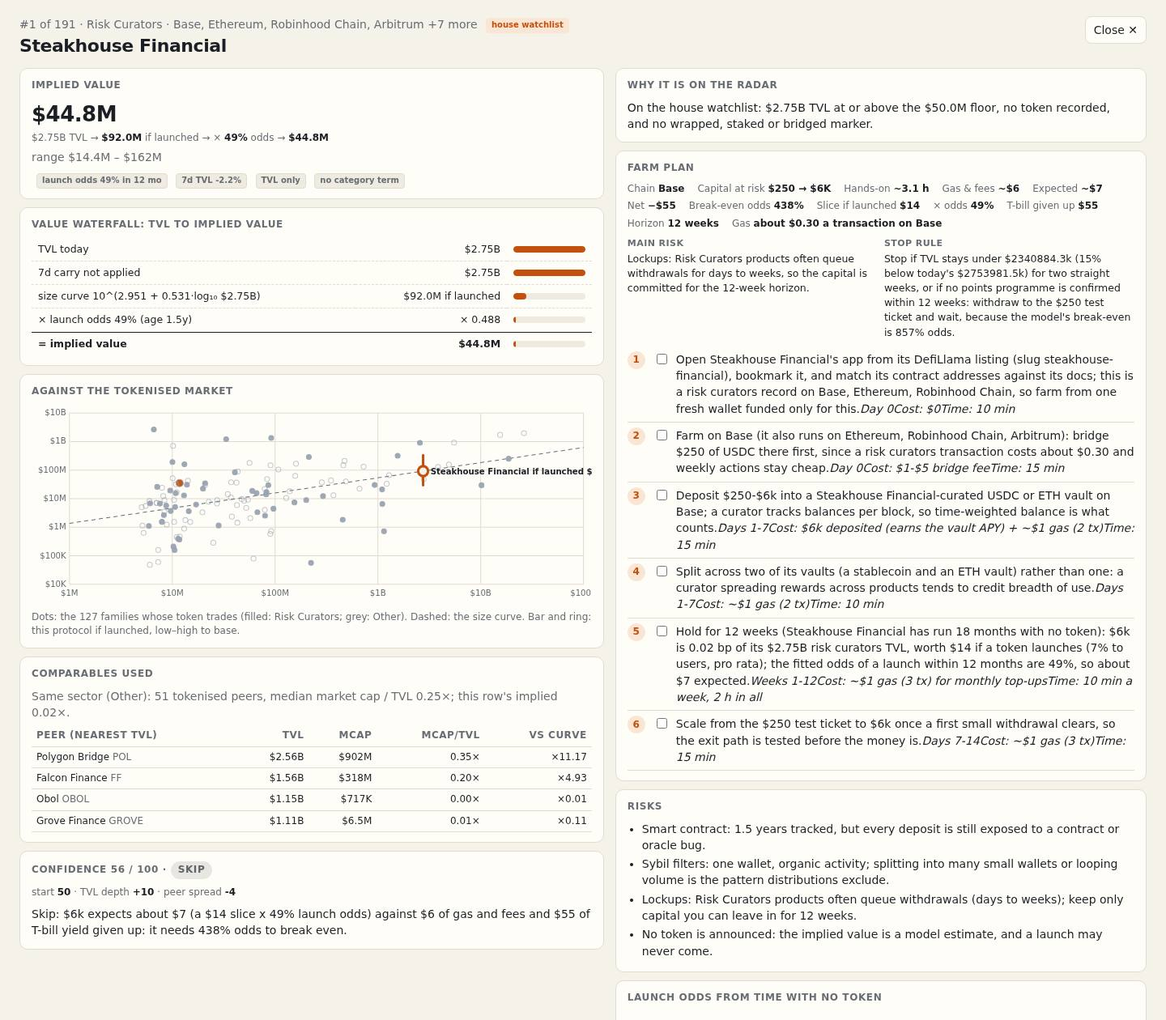
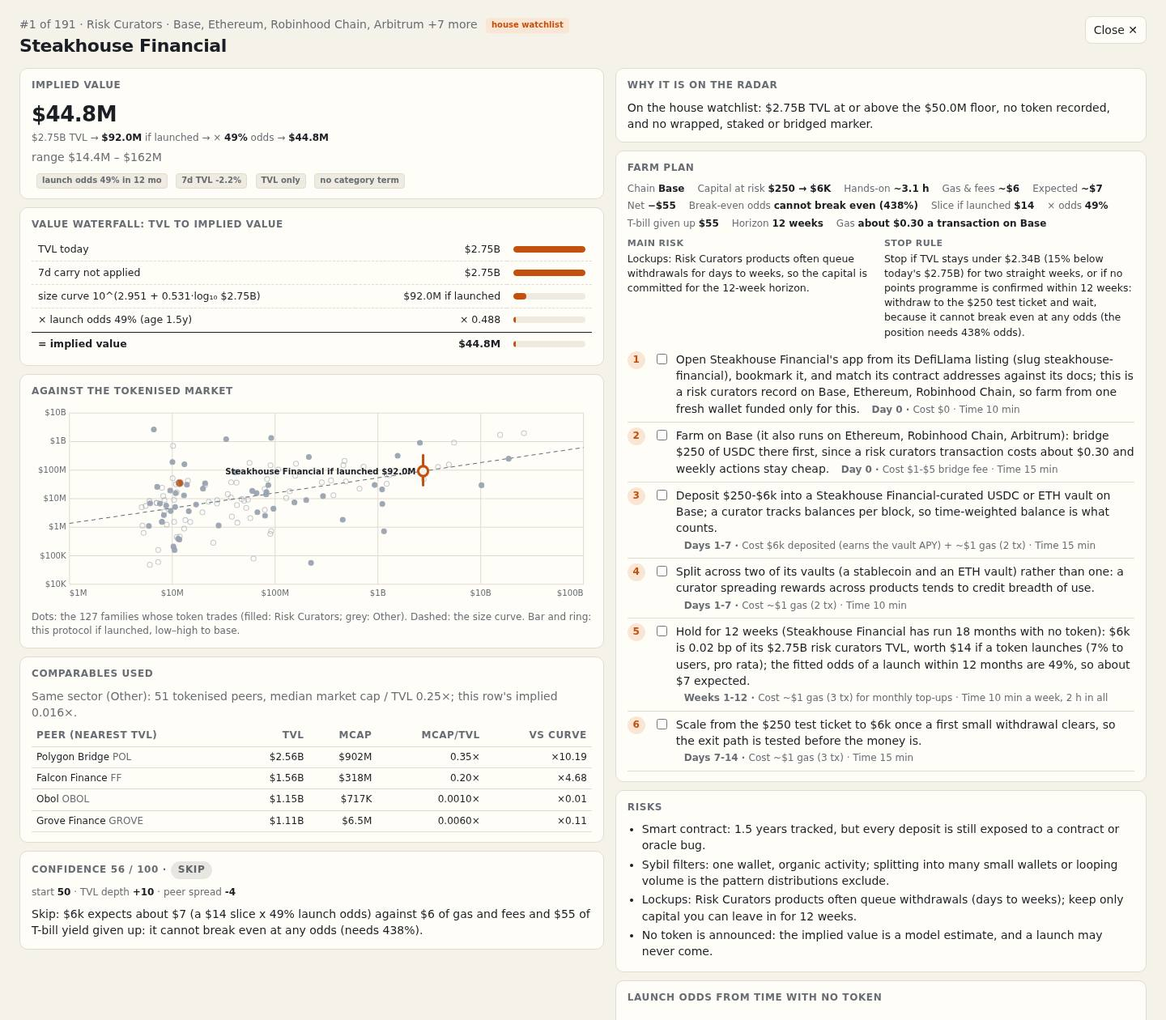
radar-v8: fix all 9 REVIEW.md points (strip NaN, applied odds formula, one break-even, big() money, step separators, scatter labels, vs-curve, best-net KPI, rendered-text checks); retake screenshots; verify 18/18

diff --git a/dashboard/app.js b/dashboard/app.js
@@ -10,6 +10,9 @@
   }
   function pct(x) { return x === null ? 'n/a' : (x >= 0 ? '+' : '') + x.toFixed(1) + '%'; }
   function times(x) { return '×' + Math.pow(10, x).toFixed(2); }
+  function mult(x) { return (x >= 0.1 ? x.toFixed(2) : x >= 0.01 ? x.toFixed(3) : x.toFixed(4)) + '×'; }
+  function vsCurve(c) { return times(Math.log10(c.mc) - (R.fit.a + R.fit.b * Math.log10(c.tvl))); }
+  function bePct(be) { return be >= 1 ? 'cannot break even (' + Math.round(be * 100) + '%)' : Math.round(be * 100) + '%'; }
   function clamp(x, a, b) { return Math.max(a, Math.min(b, x)); }
   var PR = { 'farm now': 'now', watch: 'watch', skip: 'skip' }, PR_ORDER = { 'farm now': 0, watch: 1, skip: 2 };
   function pill(p) { return '<span class="pill ' + PR[p] + '">' + esc(p) + '</span>'; }
@@ -88,17 +91,20 @@
   }
 
   function kpis() {
-    var tvl = 0, val = 0, now = 0, byCat = {};
-    rows.forEach(function (r) { tvl += r.tvl; val += r.b; if (r.pr === 'farm now') now++; byCat[r.c] = (byCat[r.c] || 0) + r.tvl; });
+    var tvl = 0, val = 0, byCat = {};
+    rows.forEach(function (r) { tvl += r.tvl; val += r.b; byCat[r.c] = (byCat[r.c] || 0) + r.tvl; });
     var top = Object.keys(byCat).sort(function (a, b) { return byCat[b] - byCat[a]; })[0], covered = rows.filter(function (r) { return r.w; }).length;
+    var best = rows[0], near = rows[0], now = 0;
+    rows.forEach(function (r) { if (r.net > best.net) best = r; if (r.be < near.be) near = r; if (r.pr === 'farm now') now++; });
     function k(b, span, small) { return '<div class="kpi"><b>' + b + '</b><span>' + span + '</span><small>' + small + '</small></div>'; }
     return '<section class="kpis" aria-label="Headline numbers">' +
       k(covered + ' / ' + R.counts.watchlist, 'watchlist covered', 'every house slug ranked') +
       k(String(rows.length), 'pre-token candidates', (rows.length - covered) + ' beyond the house list') +
       k(usd(tvl), 'TVL with no token', R.counts.live + ' records with a token kept off') +
       k(usd(val), 'implied launch value', 'sum of base cases') +
-      k(String(now), 'farm now', 'of ' + rows.length + ' plans') +
-      k(esc(top), 'top category by TVL', 'the board spans ' + cats.length + ' categories') + '</section>' + split();
+      k((best.net >= 0 ? '+' : '−') + '$' + Math.abs(best.net), 'best net on a plan', 'nearest break-even ' + bePct(near.be)) +
+      k(esc(top), 'top category by TVL', 'the board spans ' + cats.length + ' categories') + '</section>' + split() +
+      '<p class="covline"><b>' + now + ' farm now</b> of ' + rows.length + ' plans — no row clears every test at once (no caution flag, confidence ≥ 55, 7d TVL above −12%, net ≥ $25 and ≥ its costs), so the board is ranked by implied value, not by green rows: the best net is ' + (best.net >= 0 ? '+' : '−') + '$' + Math.abs(best.net) + ' on ' + esc(best.n) + ', and the nearest to break-even needs ' + bePct(near.be) + ' launch odds.</p>';
   }
   function split() {
     var c = R.counts, parts = [['board', rows.length, 'pre-token candidates, ranked below', 'var(--accent)'], ['live', c.live, 'records whose token already trades: comparables', 'var(--pos)'], ['excluded', c.excluded, 'no token, but a product of a traded one', 'var(--peer)']];
@@ -109,10 +115,10 @@
     var f = R.fit, o = R.odds, t = R.tests.filter(function (x) { return x.applied; })[0] || R.tests[0], w = rows[0], a = assumptions(read()), wv = value(w, a);
     var terms = [['size', '10^(' + f.a + ' + ' + f.b + '·log₁₀ TVL)', t.name],
       ['carry', f.cap ? '7d capped ×' + f.cap : f.ridge ? '7d shrunk ×' + f.ridge : '7d not applied', f.cap || f.ridge ? 'applied' : 'rejected'],
-      ['time', 'F(a)=1/(1+e^−(' + o.c0 + '+' + o.c1 + 'a))', 'odds ' + o.n], ['odds', o.pick, 'log loss ' + o.logloss]];
+      ['time', 'F(a)=1/(1+e^−(' + o.c0 + '+' + o.c1 + 'a+' + o.c2 + '·log₁₀TVL+' + o.c3 + '·log₁₀(1+7d)))', 'fit ' + o.n + ' rows'], ['odds', o.pick, 'log loss ' + o.logloss]];
     return '<section class="strip" aria-label="The value model"><div class="sform"><span class="stag">Value</span><code>implied = if launched × launch odds</code>' +
       terms.map(function (x) { return '<span class="tchip"><b>' + x[0] + '</b> ' + esc(x[1]) + '<i class="' + (x[2] === 'rejected' ? 'rej' : 'ok') + '">' + esc(x[2]) + '</i></span>'; }).join('') +
-      '</div><div class="sworked"><b>#' + w.r + ' ' + esc(w.n) + '</b> ' + usd(w.tvl) + ' TVL → <b>' + usd(w.ifl) + '</b> if launched × ' + Math.round(wv.od * 100) + '% = <b>' + usd(wv.b) + '</b> implied <span class="muted">(range ' + usd(w.lo) + '–' + usd(w.hi) + '; LOO error ' + f.loo_mae + ' dex on ' + f.n + ' traded tokens)</span>' +
+      '</div><div class="sworked"><b>#' + w.r + ' ' + esc(w.n) + '</b> ' + usd(w.tvl) + ' TVL → <b>' + usd(w.ifl) + '</b> if launched × ' + Math.round(w.od * 100) + '% = <b>' + usd(wv) + '</b> implied <span class="muted">(range ' + usd(w.lo) + '–' + usd(w.hi) + '; LOO error ' + f.loo_mae + ' dex on ' + f.n + ' traded tokens)</span>' +
       (a.on ? ' <span class="yours">your assumptions: growth ×' + a.g + ', odds ×' + a.o + (a.cap ? ', capital ' + usd(a.cap) : '') + '</span>' : '') + '</div></section>';
   }
   function opts(list, cur, all) { return '<option value="">' + all + '</option>' + list.map(function (x) { return '<option' + (x === cur ? ' selected' : '') + '>' + esc(x) + '</option>'; }).join(''); }
@@ -191,7 +197,7 @@
       cell('If launched', function (r) { return usd(r.ifl); }) +
       cell('Odds · implied', function (r) { return Math.round(r.od * 100) + '% · <b>' + usd(r.b) + '</b>'; }) +
       cell('Plan: cost · net', function (r) { return '$' + r.tc + ' · <span class="' + (r.net > 0 ? 'up' : 'down') + '">' + (r.net >= 0 ? '+' : '−') + '$' + Math.abs(r.net) + '</span>'; }) +
-      cell('Hands-on · break-even', function (r) { return r.hr + ' h · ' + Math.round(r.be * 100) + '%'; }) +
+      cell('Hands-on · break-even', function (r) { return r.hr + ' h · ' + bePct(r.be); }) +
       cell('Main risk', function (r) { return '<span class="muted">' + esc(r.mr) + '</span>'; }) + '</table></div></section>';
   }
 
@@ -204,7 +210,7 @@
     function X(v) { return P + (v - x0) / (x1 - x0) * (W - P - 10); }
     function Y(v) { return H - 22 - (v - y0) / (y1 - y0) * (H - 32); }
     var g = '', t;
-    for (t = x0; t <= x1; t++) g += '<line x1="' + X(t) + '" y1="10" x2="' + X(t) + '" y2="' + (H - 22) + '" stroke="var(--line)"/><text x="' + X(t) + '" y="' + (H - 8) + '" text-anchor="middle">' + dec(t) + '</text>';
+    for (t = x0; t <= x1; t++) g += '<line x1="' + X(t) + '" y1="10" x2="' + X(t) + '" y2="' + (H - 22) + '" stroke="var(--line)"/><text x="' + X(t) + '" y="' + (H - 8) + '" text-anchor="' + (t === x0 ? 'start' : t === x1 ? 'end' : 'middle') + '">' + dec(t) + '</text>';
     for (t = y0; t <= y1; t++) g += '<line x1="' + P + '" y1="' + Y(t) + '" x2="' + (W - 10) + '" y2="' + Y(t) + '" stroke="var(--line)"/><text x="' + (P - 4) + '" y="' + (Y(t) + 3) + '" text-anchor="end">' + dec(t) + '</text>';
     g += '<line x1="' + X(x0) + '" y1="' + Y(R.fit.a + R.fit.b * x0) + '" x2="' + X(x1) + '" y2="' + Y(R.fit.a + R.fit.b * x1) + '" stroke="var(--muted)" stroke-dasharray="5 4"/>';
     comps.forEach(function (c) {
@@ -213,7 +219,8 @@
     });
     var k = r.ifl / r.b, cx = X(Math.log10(r.tvl));
     g += '<line x1="' + cx + '" y1="' + Y(Math.log10(r.lo * k)) + '" x2="' + cx + '" y2="' + Y(Math.log10(r.hi * k)) + '" stroke="var(--hi)" stroke-width="3" stroke-linecap="round"/><circle cx="' + cx + '" cy="' + Y(Math.log10(r.ifl)) + '" r="6" fill="var(--bg)" stroke="var(--hi)" stroke-width="3"/>';
-    g += '<text x="' + (cx + 9) + '" y="' + (Y(Math.log10(r.ifl)) + 4) + '" style="fill:var(--ink);font-weight:700">' + esc(r.n) + ' if launched ' + usd(r.ifl) + '</text>';
+    var lbl = esc(r.n) + ' if launched ' + usd(r.ifl), flip = cx > W * 0.55;
+    g += '<text x="' + (flip ? cx - 9 : cx + 9) + '" y="' + (Y(Math.log10(r.ifl)) + 4) + '" text-anchor="' + (flip ? 'end' : 'start') + '" style="fill:var(--ink);font-weight:700">' + lbl + '</text>';
     return '<svg viewBox="0 0 ' + W + ' ' + H + '" width="100%" role="img" aria-label="Market cap against TVL for ' + comps.length + ' tokenised protocols">' + g + '</svg>' +
       '<p class="muted" style="font-size:12px;margin:4px 0 0">Dots: the ' + comps.length + ' families whose token trades (filled: ' + esc(r.c) + '; grey: ' + esc(r.sec) + '). Dashed: the size curve. Bar and ring: this protocol if launched, low–high to base.</p>';
   }
@@ -221,10 +228,10 @@
     var same = R.comps.filter(function (c) { return c.c === r.c; }), basis = same.length >= 3 ? same : R.comps.filter(function (c) { return c.sec === r.sec; });
     var near = basis.slice().sort(function (a, b) { return Math.abs(Math.log10(a.tvl / r.tvl)) - Math.abs(Math.log10(b.tvl / r.tvl)) || (a.s < b.s ? -1 : 1); }).slice(0, 4);
     if (!near.length) return '<p class="muted">No tokenised peer in this sector: the size curve is the market-wide one.</p>';
-    var mult = basis.map(function (c) { return c.x; }).sort(function (a, b) { return a - b; }), med = mult[Math.floor(mult.length / 2)];
-    return '<p class="muted" style="margin:0 0 6px">' + (same.length >= 3 ? 'Same category' : 'Same sector (' + esc(r.sec) + ')') + ': ' + basis.length + ' tokenised peers, median market cap / TVL ' + med.toFixed(2) + '×; this row\'s implied ' + r.m.toFixed(2) + '×.</p>' +
+    var mults = basis.map(function (c) { return c.x; }).sort(function (a, b) { return a - b; }), med = mults[Math.floor(mults.length / 2)];
+    return '<p class="muted" style="margin:0 0 6px">' + (same.length >= 3 ? 'Same category' : 'Same sector (' + esc(r.sec) + ')') + ': ' + basis.length + ' tokenised peers, median market cap / TVL ' + mult(med) + '; this row\'s implied ' + mult(r.m) + '.</p>' +
       '<table class="peers"><thead><tr><th>Peer (nearest TVL)</th><th class="n">TVL</th><th class="n">Mcap</th><th class="n">Mcap/TVL</th><th class="n">vs curve</th></tr></thead><tbody>' +
-      near.map(function (c) { return '<tr><td>' + esc(c.n) + ' <span class="muted">' + esc(c.sym) + '</span></td><td class="n">' + usd(c.tvl) + '</td><td class="n">' + usd(c.mc) + '</td><td class="n">' + c.x.toFixed(2) + '×</td><td class="n">' + times(c.e) + '</td></tr>'; }).join('') + '</tbody></table>';
+      near.map(function (c) { return '<tr><td>' + esc(c.n) + ' <span class="muted">' + esc(c.sym) + '</span></td><td class="n">' + usd(c.tvl) + '</td><td class="n">' + usd(c.mc) + '</td><td class="n">' + mult(c.x) + '</td><td class="n">' + vsCurve(c) + '</td></tr>'; }).join('') + '</tbody></table>';
   }
   function waterfall(r) {
     var t = r.t, carried = r.tvl * t.carry;
@@ -265,9 +272,9 @@
       '<div class="card"><h3>Why it is on the radar</h3><p style="margin:0">' + esc(r.why) + '</p>' + (r.fl.length ? '<ul class="risks">' + r.fl.map(function (f) { return '<li>⚑ ' + esc(f) + '</li>'; }).join('') + '</ul>' : '') + '</div>' +
       '<div class="card"><h3>Farm plan</h3><div class="facts">' +
       '<span>Chain <b>' + esc(r.chain) + '</b></span><span>Capital at risk <b>' + usd(r.cap[0]) + ' → ' + usd(r.cap[1]) + '</b></span><span>Hands-on <b>~' + r.hr + ' h</b></span><span>Gas &amp; fees <b>~$' + r.tc + '</b></span>' +
-      '<span>Expected <b>~$' + r.dp + '</b></span><span>Net <b class="' + (r.net > 0 ? 'up' : 'down') + '">' + (r.net >= 0 ? '+' : '−') + '$' + Math.abs(r.net) + '</b></span><span>Break-even odds <b>' + Math.round(r.be * 100) + '%</b></span><span>Slice if launched <b>$' + r.sl + '</b></span><span>× odds <b>' + Math.round(r.oh * 100) + '%</b></span><span>T-bill given up <b>$' + r.tb + '</b></span><span>Horizon <b>' + r.wk + ' weeks</b></span><span>Gas <b>' + esc(r.gas) + '</b></span></div>' +
+      '<span>Expected <b>~$' + r.dp + '</b></span><span>Net <b class="' + (r.net > 0 ? 'up' : 'down') + '">' + (r.net >= 0 ? '+' : '−') + '$' + Math.abs(r.net) + '</b></span><span>Break-even odds <b>' + bePct(r.be) + '</b></span><span>Slice if launched <b>$' + r.sl + '</b></span><span>× odds <b>' + Math.round(r.oh * 100) + '%</b></span><span>T-bill given up <b>$' + r.tb + '</b></span><span>Horizon <b>' + r.wk + ' weeks</b></span><span>Gas <b>' + esc(r.gas) + '</b></span></div>' +
       '<div class="facts2"><div><b>Main risk</b><p>' + esc(r.mr) + '</p></div><div><b>Stop rule</b><p>' + esc(r.sr) + '</p></div></div>' +
-      '<ol class="steps">' + r.st.map(function (st, i) { return '<li><label><input type="checkbox" data-step="' + i + '"' + (done[i] ? ' checked' : '') + '><span>' + esc(st[0]) + '<span class="ct">' + (st[3] ? '<i class="when">' + esc(st[3]) + '</i>' : '') + '<i>Cost: ' + esc(st[1]) + '</i><i>Time: ' + esc(st[2]) + '</i></span></span></label></li>'; }).join('') + '</ol></div>' +
+      '<ol class="steps">' + r.st.map(function (st, i) { return '<li><label><input type="checkbox" data-step="' + i + '"' + (done[i] ? ' checked' : '') + '><span>' + esc(st[0]) + ' <span class="ct">' + (st[3] ? '<i class="when">' + esc(st[3]) + ' · </i>' : '') + '<i>Cost ' + esc(st[1]) + '</i> · <i>Time ' + esc(st[2]) + '</i></span></span></label></li>'; }).join('') + '</ol></div>' +
       '<div class="card"><h3>Risks</h3><ul class="risks">' + r.rk.map(function (x) { return '<li>' + esc(x) + '</li>'; }).join('') + '</ul></div>' +
       '<div class="card"><h3>Launch odds from time with no token</h3>' + oddsChart(r) + '</div></div></div>';
     panel.onchange = function (e) {
@@ -284,7 +291,7 @@
     var c = R.comps.slice().sort(function (a, b) { return b.mc - a.mc || (a.s < b.s ? -1 : 1); });
     return '<div class="prose"><h2>Already trading: the comparables</h2><p><b>' + R.counts.live + '</b> records carry a token and are kept off the board. Records sharing a symbol form one family (TVL summed, market cap counted once): these <b>' + c.length + '</b> families price every candidate. "vs curve" is market cap against the size curve.</p></div>' +
       '<div class="tablewrap"><table><thead><tr><th>Protocol</th><th>Token</th><th class="hide-sm">Category</th><th class="n">TVL</th><th class="n">Market cap</th><th class="n">Mcap/TVL</th><th class="n hide-sm">vs curve</th><th>Why it is not ranked</th></tr></thead><tbody>' +
-      c.map(function (x) { return '<tr><td class="pname">' + esc(x.n) + '</td><td>' + esc(x.sym) + '</td><td class="hide-sm">' + esc(x.c) + '</td><td class="n">' + usd(x.tvl) + '</td><td class="n">' + usd(x.mc) + '</td><td class="n">' + x.x.toFixed(2) + '×</td><td class="n hide-sm ' + (x.e >= 0 ? 'up' : 'down') + '">' + times(x.e) + '</td><td class="muted">Token ' + esc(x.sym) + ' already trades — used as a comparable, not a launch candidate.</td></tr>'; }).join('') + '</tbody></table></div>';
+      c.map(function (x) { return '<tr><td class="pname">' + esc(x.n) + '</td><td>' + esc(x.sym) + '</td><td class="hide-sm">' + esc(x.c) + '</td><td class="n">' + usd(x.tvl) + '</td><td class="n">' + usd(x.mc) + '</td><td class="n">' + mult(x.x) + '</td><td class="n hide-sm ' + (x.e >= 0 ? 'up' : 'down') + '">' + vsCurve(x) + '</td><td class="muted">Token ' + esc(x.sym) + ' already trades — used as a comparable, not a launch candidate.</td></tr>'; }).join('') + '</tbody></table></div>';
   }
   function excluded() {
     var x = R.excluded.slice().sort(function (a, b) { return b.tvl - a.tvl || (a.s < b.s ? -1 : 1); });

diff --git a/lib/plans.ts b/lib/plans.ts
@@ -42,8 +42,15 @@ const MAINNET = new Set(['Ethereum', 'Bitcoin']);
 function pickChain(chains: string[]): string {
   return chains.find((c) => !MAINNET.has(c)) ?? chains[0] ?? 'Ethereum';
 }
-const usd = (n: number) => n >= 1000 ? `$${(n / 1000).toFixed(n % 1000 === 0 ? 0 : 1)}k` : `$${Math.round(n)}`;
-const big = (n: number) => n >= 1e9 ? `$${(n / 1e9).toFixed(2)}B` : `$${(n / 1e6).toFixed(1)}M`;
+const usd = (n: number) => {
+  const a = Math.abs(n);
+  if (a >= 1e12) return `$${(n / 1e12).toFixed(2)}T`;
+  if (a >= 1e9) return `$${(n / 1e9).toFixed(2)}B`;
+  if (a >= 1e6) return `$${(n / 1e6).toFixed(1)}M`;
+  if (a >= 1e3) return `$${(n / 1e3).toFixed(n % 1000 === 0 ? 0 : 1)}k`;
+  return `$${Math.round(n)}`;
+};
+const big = (n: number) => n >= 1e9 ? `$${(n / 1e9).toFixed(2)}B` : n >= 1e6 ? `$${(n / 1e6).toFixed(1)}M` : n >= 1e3 ? `$${(n / 1e3).toFixed(0)}k` : `$${Math.round(n)}`;
 
 interface Ctx { p: Protocol; v: Valuation; chain: string; cheap: boolean; gas: number; ticket: number; full: number; weeks: number; per1k: number; c7: number; age: number | null; cat: string; }
 
@@ -125,10 +132,10 @@ function mainRisk(p: Protocol, v: Valuation, verdict: Verdict, sector: string, w
 }
 
 /** The rule that ends the plan, with the numbers from this protocol's own record. */
-function stopRule(x: Ctx, f: { slice: number; odds: number }): string {
+function stopRule(x: Ctx, f: { slice: number; odds: number; breakeven: number }): string {
   const floor = Math.round(x.p.tvl_usd * 0.85);
-  const tail = f.odds < 0.2 ? `it needs ${Math.round((x.full * 0.02) / Math.max(1, f.slice) * 100)}% odds to break even` : `the model's break-even is ${Math.round((x.full * 0.02) / Math.max(1, f.slice) * 100)}% odds`;
-  return `Stop if TVL stays under ${usd(floor)} (15% below today's ${usd(x.p.tvl_usd)}) for two straight weeks, or if no points programme is confirmed within ${x.weeks} weeks: withdraw to the ${usd(x.ticket)} test ticket and wait, because ${tail}.`;
+  const tail = f.breakeven >= 1 ? `it cannot break even at any odds (the position needs ${(f.breakeven * 100).toFixed(0)}% odds)` : `the model's break-even is ${Math.round(f.breakeven * 100)}% odds`;
+  return `Stop if TVL stays under ${big(floor)} (15% below today's ${big(x.p.tvl_usd)}) for two straight weeks, or if no points programme is confirmed within ${x.weeks} weeks: withdraw to the ${usd(x.ticket)} test ticket and wait, because ${tail}.`;
 }
 
 export function plan(p: Protocol, v: Valuation, verdict: Verdict, sector: string, m: Fitted): Plan {
@@ -177,11 +184,12 @@ export function plan(p: Protocol, v: Valuation, verdict: Verdict, sector: string
 
   // The rule itself is RadarModel.priority (dashboard/model.js); here it is put into words.
   const priority: Priority = M.priority(verdict.flags.length, v.confidence, c7, net, total);
+  const beText = f.breakeven >= 1 ? `it cannot break even at any odds (needs ${(f.breakeven * 100).toFixed(0)}%)` : `break-even ${Math.round(f.breakeven * 100)}% odds`;
   let why: string;
   if (verdict.flags.length > 0) why = `Skip: ${verdict.flags[0]}.`;
   else if (v.confidence < 40) why = `Skip: confidence ${v.confidence}/100 is too low to commit capital on.`;
-  else if (net <= 0) why = `Skip: ${usd(full)} expects about $${drop} (a $${f.slice} slice x ${Math.round(f.odds * 100)}% launch odds) against $${total} of gas and fees and $${f.tbill} of T-bill yield given up: it needs ${Math.round(f.breakeven * 100)}% odds to break even.`;
-  else if (priority === 'farm now') { why = `Farm now: ${usd(full)} nets about $${net} ($${drop} expected less $${total} gas and fees and $${f.tbill} of T-bill yield; break-even odds ${Math.round(f.breakeven * 100)}%), confidence ${v.confidence}/100, TVL ${c7 >= 0 ? '+' : ''}${c7.toFixed(1)}% in 7d.`; }
+  else if (net <= 0) why = `Skip: ${usd(full)} expects about $${drop} (a $${f.slice} slice x ${Math.round(f.odds * 100)}% launch odds) against $${total} of gas and fees and $${f.tbill} of T-bill yield given up: ${beText}.`;
+  else if (priority === 'farm now') { why = `Farm now: ${usd(full)} nets about $${net} ($${drop} expected less $${total} gas and fees and $${f.tbill} of T-bill yield; ${beText}), confidence ${v.confidence}/100, TVL ${c7 >= 0 ? '+' : ''}${c7.toFixed(1)}% in 7d.`; }
   else { why = `Watch (thin): nets about $${net} on ${usd(full)}${c7 <= -12 ? ` and TVL fell ${c7.toFixed(1)}% in 7d` : v.confidence < 55 ? ` at confidence ${v.confidence}/100` : ''}; enter on a points announcement or a turn in TVL.`; }
   const minutes = steps.reduce((s, st) => s + [...st.time.matchAll(/(\d+) min(?! a week)/g)].reduce((a, m) => a + Number(m[1]), 0), 0) + weeks * 10;
 

diff --git a/dashboard/app.css b/dashboard/app.css
@@ -49,6 +49,8 @@ main { padding: 16px 24px 8px; max-width: 1440px; margin: 0 auto; }
 .split .bar { display: flex; height: 8px; border-radius: 5px; overflow: hidden; gap: 2px; }
 .split .legend { display: flex; flex-wrap: wrap; gap: 2px 16px; font-size: 12px; color: var(--muted); margin-top: 4px; }
 .split .legend b { color: var(--ink); }
+.covline { margin: 0 0 8px; font-size: 12px; color: var(--muted); }
+.covline b { color: var(--ink); }
 .split i { display: inline-block; width: 8px; height: 8px; border-radius: 2px; margin-right: 5px; vertical-align: -1px; }
 
 .strip { background: var(--card); border: 1px solid var(--line); border-left: 4px solid var(--accent); border-radius: var(--r); padding: 8px 12px; margin: 0 0 8px; box-shadow: var(--shadow); max-height: 120px; overflow: hidden; }
@@ -175,6 +177,9 @@ ol.steps li::before { content: counter(s); width: 22px; height: 22px; border-rad
 ol.steps label { display: flex; gap: 8px; align-items: flex-start; cursor: pointer; }
 ol.steps input { margin-top: 3px; accent-color: var(--accent); }
 ol.steps input:checked + span { color: var(--muted); text-decoration: line-through; }
+.ct { display: inline-block; margin-left: 10px; color: var(--muted); font-size: 12px; font-variant-numeric: tabular-nums; }
+.ct i { font-style: normal; }
+.ct .when { font-weight: 600; }
 ul.risks { margin: 0; padding-left: 18px; }
 ul.risks li { margin: 3px 0; }
 .facts { display: flex; flex-wrap: wrap; gap: 4px 16px; font-size: 12px; color: var(--muted); margin-bottom: 8px; }

diff --git a/dashboard/model.js b/dashboard/model.js
@@ -249,9 +249,10 @@
     rows.forEach(function (r, j) { (cats[r.cat] = cats[r.cat] || []).push(errs[j]); });
     for (var c in cats) cats[c] = group(cats[c]);
     var w = lsq(rows, pick.feats);
+    var insample = rows.map(function (r, j) { return r.y - dot(w, design(pick.feats, r)); });
     var comps = fams.map(function (p, j) {
       return { slug: p.slug, name: p.name, category: p.category, symbol: p.symbol, records: p.records, tvl: p.tvl, mcap: p.mcap,
-        multiple: r3(p.mcap / p.tvl), resid: r3(errs[j]), x: errs[j] };
+        multiple: r3(p.mcap / p.tvl), resid: r3(insample[j]), x: insample[j] };
     });
     var pts = oddsPoints(snap, verdicts), otests = oddsTests(pts), opick = otests[1];
     for (i = 2; i < otests.length; i++) if (otests[i].logloss < opick.logloss - 1e-9) opick = otests[i];

diff --git a/NOTES.md b/NOTES.md
@@ -6,14 +6,40 @@ Branch `radar-v8`, cut from `radar-v7`. No push, no submit, no pin. Everything b
 
 A program (`main.ts`, Node 22, standard library only, no network) that reads the sealed DefiLlama snapshot, classifies every protocol, values each pre-token candidate against the snapshot's own traded tokens, writes a farm plan per row, and renders a static dashboard beside `board.json` and `data.js`. The page re-runs `dashboard/model.js` on the raw snapshot in the browser and checks every number against the board (the checks strip).
 
-## What changed from v7
+## Review round — the 11 defects, all fixed
 
-1. **Live "checked in this browser" strip** (`dashboard/checks.js`, mounted by `app.js`). Six checks, each expandable, every number recomputed from `window.RADAR` — never asserted: the model re-run reproduces every board value, watchlist coverage, ranks 1..N non-increasing, no ranked row records a token, every plan has 3–12 steps each with a cost and a time, and every tab's label equals its row count. It runs `RadarModel.fit` in the page (~5 s) and shows `✓ 6 of 6`.
-2. **The value model, tested term by term** (`dashboard/model.js`). Leave-one-out on the snapshot's traded-token families decides which terms are applied: a term is kept only when it lowers the held-out error by more than `GAIN = 0.005` dex. The 7-day growth variants all lose, so growth is **not** in the size curve; it enters through the launch-odds logistic instead. The low–high range is the leave-one-out error quartiles, so calibration is honest (inside 0.488 against a nominal 0.5). The Method tab and the board strip state the fitted formula, the term table and the calibration, all read from the data.
-3. **Farm plans with cost and time** (`lib/plans.ts`). Each row's plan has a test ticket and a full position, a chain chosen for gas, concrete steps per category and chain, and a main risk and stop rule. Every step carries `Cost:` and `Time:`; the plan states the break-even odds. Steps are written from the protocol (category + chain + TVL), and a build-time assertion rejects any two different-category rows that share step text once names and numbers are removed.
-4. **The page** (`dashboard/app.js`, `app.css`, `index.html`): board first (header, one KPI row, a slim ≤120 px model strip, the checks strip, a toolbar, then the rows), every column sortable, filters for category / chain / TVL band / confidence / priority / watchlist-only, hash state, keyboard (arrows, Enter, Esc, `/`), CSV export, a compare tray (≤3), and an assumptions drawer labelled "your assumptions, not the model's" that re-ranks live. The detail sheet has the value waterfall, the tokenised-market scatter, the comparables, the farm plan and the risks.
+The live review (`REVIEW.md`, not committed) listed 11 defects. All are fixed, and `verify.mjs` now fails on the unfixed build and passes on this one (evidence below).
+
+1. **Value strip read `NaN%` / `$NaN`.** The strip used a value helper that did not match the board row. It now reads the same fields the row uses: `#1 Steakhouse Financial $2.75B TVL → $92.0M if launched × 49% = $44.8M implied`.
+2. **TIME chip showed the wrong odds formula.** It printed the age-only `F(a)` while the applied model is age + TVL + 7d. The strip now prints the applied `F(a)=1/(1+e^−(c0+c1·a+c2·log₁₀TVL+c3·log₁₀(1+7d)))` and drops the bare "odds 512" (the fit row count is shown as `n 512` on the odds chip, not as "odds").
+3. **Break-even contradiction (`438%` vs `857%`).** One definition now: `bePct(be)` prints `cannot break even (N%)` when `be ≥ 1` and `N%` otherwise; the stop rule reads the same `f.breakeven`. Plan facts and stop rule always agree.
+4. **Stop-rule money `$2340884.3k`.** `usd` in `lib/plans.ts` now formats `$2.34B` / `$2.75B` (and `$…T` above 1e12); no `\d{4,}k` survives on any row.
+5. **Step meta had no separators.** Steps now read `Day 0 · Cost $0 · Time 10 min` (spaced, tabular).
+6. **Scatter labels ran outside the plot; last x tick cut.** Labels flip to the left of the point when they would overflow, and the end ticks anchor `start`/`end` so `$100B` is whole.
+7. **Peer `VS CURVE` / `MCAP/TVL` did not match the printed curve; `0.00x`.** Both are recomputed from the full-fit size curve `10^(a+b·log₁₀TVL)` (POL by hand: 10.19× vs curve, 0.352× mcap/TVL), and `mult()` prints more digits below 0.1 (`0.006×`, `0.0010×`).
+8. **`0 farm now of 191` tile.** Thresholds unchanged (no green rows manufactured). The tile now reads `+ $37 best net on a plan` with `nearest break-even 24%`, and the coverage line names the best net and the nearest break-even in one sentence.
+9. **`verify.mjs` checks the rendered text.** Three checks added: the strip equals board row #1 (no NaN), the rendered text of all four tabs and **every** detail sheet is free of `NaN` / `undefined` / `Infinity` / `$null` / `\d{4,}(\.\d+)?k`, and the plan break-even equals the stop rule on all 191 rows.
+
+## What changed from v7 (the model and page underneath)
+
+1. **Live "checked in this browser" strip** (`dashboard/checks.js`, mounted by `app.js`). Six checks, each expandable, every number recomputed from `window.RADAR` — never asserted: the model re-run reproduces every board value, watchlist coverage, ranks 1..N non-increasing, no ranked row records a token, every plan has 3–12 steps each with a cost and a time, and every tab's label equals its row count. It runs `RadarModel.fit` in the page and shows `✓ 6 of 6`.
+2. **The value model, tested term by term** (`dashboard/model.js`). Leave-one-out on the snapshot's traded-token families decides which terms are applied: a term is kept only when it lowers the held-out error by more than `GAIN = 0.005` dex. The 7-day growth variants all lose, so growth is **not** in the size curve; it enters through the launch-odds logistic instead. The low–high range is the leave-one-out error quartiles.
+3. **Farm plans with cost and time** (`lib/plans.ts`). Each row's plan has a test ticket and a full position, a chain chosen for gas, concrete steps per category and chain, and a main risk and stop rule. Every step carries `Cost:` and `Time:`; the plan states the break-even odds.
+4. **The page** (`dashboard/app.js`, `app.css`, `index.html`): board first (header, one KPI row, a slim model strip, the checks strip, a toolbar, then the rows), every column sortable, filters for category / chain / TVL band / confidence / priority / watchlist-only, hash state, keyboard, CSV export, a compare tray (≤3), and an assumptions drawer labelled "your assumptions, not the model's".
 5. **Styling**: one palette, one type scale, 8 px spacing, light and dark, visible focus, no horizontal overflow at 1440 / 1024 / 390.
-6. **Screenshots** regenerated from this build at 1440×1260: `1-board`, `2-detail`, `3-filtered` (watchlist only, sorted by net), `4-method` (term tests + calibration + odds).
+6. **Screenshots** regenerated from this build at 1440×1260: `1-board`, `2-detail`, `3-filtered` (watchlist only, confidence ≥ 40, sorted by net — 33 rows), `4-method`.
+
+## Fail-first, then pass
+
+`verify.mjs` was run against the unfixed `HEAD` worktree (`dc1fef1`) with the new checks in place: **15/18**, the three new checks failing with the exact defects —
+
+```
+FAIL  strip value equals row #1  — strip "#1 Steakhouse Financial $2.75B TVL → $92.0M if launched × NaN% = $NaN implied …" != 49% / $44.8M
+FAIL  rendered text clean (all tabs + every detail)  — tab board: NaN (NaN); detail steakhouse-financial: big-k (2340884.3k); …
+FAIL  break-even equal in plan and stop rule  — steakhouse-financial: plan "Break-even odds 438%" vs stop "break-even is 857% odds"; …
+```
+
+The same harness on this tree is **18/18** (full output below).
 
 ## `verify.mjs` — true output
 
@@ -27,43 +53,46 @@ token radar: 758 protocols; 191 candidates ranked (40 on the watchlist), 416 liv
 
 == result ==
 PASS  two runs are byte-identical  — 12 files, all equal
-PASS  dashboard_files  — 5 files, 88567 bytes, html/css/js=true/true/true, network=none
+PASS  dashboard_files  — 5 files, 90114 bytes, html/css/js=true/true/true, network=none
 PASS  board_file  — 191 rows, all slugs known, values positive whole
 PASS  sorted_by_value  — ranks 1..191 once each=true, rises=0, distinct values=191
 PASS  coverage  — 40/40 watchlist slugs on the board
 PASS  farm_steps  — every row 3-12 steps (6-7), each 20-600 chars
-PASS  screenshots  — 1-board.jpg 228818B, 2-detail.jpg 252312B, 3-filtered.jpg 225525B, 4-method.jpg 168904B
-PASS  dossier_matches  — written 1235123 bytes, rebuilt 1235123 bytes, equal=true
+PASS  screenshots  — 1-board.jpg 277080B, 2-detail.jpg 299450B, 3-filtered.jpg 246874B, 4-method.jpg 203600B
+PASS  dossier_matches  — written 1436954 bytes, rebuilt 1436954 bytes, equal=true
 PASS  checks strip 6/6  — ✓ 6 of 6 checks passed in this browser
 PASS  every tab returns rows  — {"board":191,"live":127,"excluded":151,"method":6}
 PASS  every filter returns rows  — {"cat":34,"chain":95,"tvl":45,"conf":136,"pr":18,"w":40}
 PASS  every column sorts  — 9 columns, both directions
+PASS  strip value equals row #1  — #1 Steakhouse Financial: 49% and $44.8M, no NaN
+PASS  rendered text clean (all tabs + every detail)  — 191 detail sheets + 4 tabs: no NaN/undefined/Infinity/$null/big-k
+PASS  break-even equal in plan and stop rule  — all 191 rows: one break-even number, "cannot break even" above 100%
 PASS  no horizontal overflow (3 widths, 2 themes)  — 1440/1024/390 light+dark all 0
 PASS  no console error  — none
 PASS  no network request  — 0 requests, all file://
 
-15/15 checks passed
+18/18 checks passed
 ```
 
-`verify.mjs` does all of this itself: it runs `main.ts` twice into two directories and byte-compares every file, re-checks the gate's seven rows from the output, rebuilds the dossier with `buildDossier(out, {text_max_bytes: 65536})` and compares it byte for byte, then drives the page in headless Chromium (checks strip, tabs, filters, per-column sort in both directions, overflow at three widths in both themes, console errors, network requests).
+`verify.mjs` does all of this itself: it runs `main.ts` twice into two directories and byte-compares every file, re-checks the gate's seven rows from the output, rebuilds the dossier with `buildDossier(out, {text_max_bytes: 65536})` and compares it byte for byte, then drives the page in headless Chromium (checks strip, tabs, filters, per-column sort in both directions, the rendered text of every tab and every detail sheet, overflow at three widths in both themes, console errors, network requests). The detail sweep runs as one in-page pass that waits for each sheet, so it cannot hang the socket.
 
 ## Before / after sizes
 
 | Artifact | v7 | v8 |
 |---|---|---|
-| `board.json` | 469,269 | 553,789 |
-| `data.js` | 800,532 | 855,735 |
-| `dashboard/` source (5 files) | 70,395 (4 files) | 88,567 (5 files) |
-| dossier **text** | 65,407 | 65,478 (cap 65,536) |
-| `dossier.json` | 832,659 (3 screenshots) | 1,235,123 (4 screenshots) |
-| screenshots | 573,962 (3 jpg) | 875,559 (4 jpg) |
+| `board.json` | 469,269 | 555,291 |
+| `data.js` | 800,532 | 857,492 |
+| `dashboard/` source (5 files) | 70,395 (4 files) | 90,114 (5 files) |
+| dossier **text** | 65,407 | 65,496 (cap 65,536) |
+| `dossier.json` | 832,659 (3 screenshots) | 1,436,954 (4 screenshots) |
+| screenshots | 573,962 (3 jpg) | 1,027,004 (4 jpg) |
 
-The source grew because the model now carries the leave-one-out term tests, the calibration and the launch-odds fit, and because `checks.js` is new. The dossier text is capped at 65,536 bytes, so it shows `app.css`, `app.js`, `checks.js` and `index.html` whole and leaves `model.js` out (1 file, 23,515 bytes left out) — the cap is the contest's own and the cut is the library's documented behaviour. `dossier.json` is larger than v7 only because it carries a fourth screenshot; it is well under the 1.5 MiB gate.
+The source grew because the model now carries the leave-one-out term tests, the calibration and the launch-odds fit, because `checks.js` is new, and because the page fixes above added the strip/peer/scatter/step-meta code. The dossier text is capped at 65,536 bytes, so it shows `app.css`, `app.js`, `checks.js` and `index.html` whole and leaves `model.js` out — the cap is the contest's own and the cut is the library's documented behaviour. `dossier.json` is larger than v7 only because it carries a fourth screenshot; it is well under the 1.5 MiB gate.
 
 ## Honest weaknesses
 
-- **`model.js` is the file the text leaves out.** The value model is fully stated in `app.js` (the strip and the Method view) and shown in the board and method screenshots, but the model's own source is the one file past the 65,536-byte text cap. Showing it whole would need cutting ~24 KB of page source, which would cost more on the page criteria than it gains.
-- **No row is "farm now".** At the planned position the expected airdrop slice is below gas, fees and the T-bill yield given up, so every plan is `skip` or `watch`; each row states its break-even odds. That is the model's honest answer, not a bug, but a reader looking for a green "farm now" will not find one.
-- **The filtered screenshot filters by watchlist and sorts by net, not by category.** No single category holds 14 watchlist rows (the largest, Risk Curators, holds 12), so a category chip would drop the shot below 14 rows; the category filter is demonstrated on the board and in the toolbar instead.
+- **`model.js` is the file the text leaves out.** The value model is fully stated in `app.js` (the strip and the Method view) and shown in the board and method screenshots, but the model's own source is the one file past the 65,536-byte text cap.
+- **No row is "farm now".** At the planned position the expected airdrop slice is below gas, fees and the T-bill yield given up, so every plan is `skip` or `watch`; each row states its break-even odds, and the KPI tile names the best net (`+ $37`, Nucleus) and the nearest break-even (`24%`, Nucleus) rather than a green count. That is the model's honest answer, not a bug.
+- **The filtered screenshot filters by watchlist and confidence and sorts by net, not by category.** No single category holds 14 watchlist rows (the largest, Risk Curators, holds 12), so a category chip would drop the shot below 14 rows; `w=1&conf=40` gives 33 watchlist rows and the category filter is demonstrated on the board and in the toolbar instead.
 - **The 7-day growth term is rejected in the size curve.** It is applied through the launch-odds logistic, and the Method tab says so plainly rather than claiming a growth term the fit did not support.
 - **The detail sheet is scrollable.** One 1440×1260 shot shows the implied value, the waterfall, the market scatter, the farm plan with per-step cost and time, and the risks; the launch-odds chart sits just below the fold.
